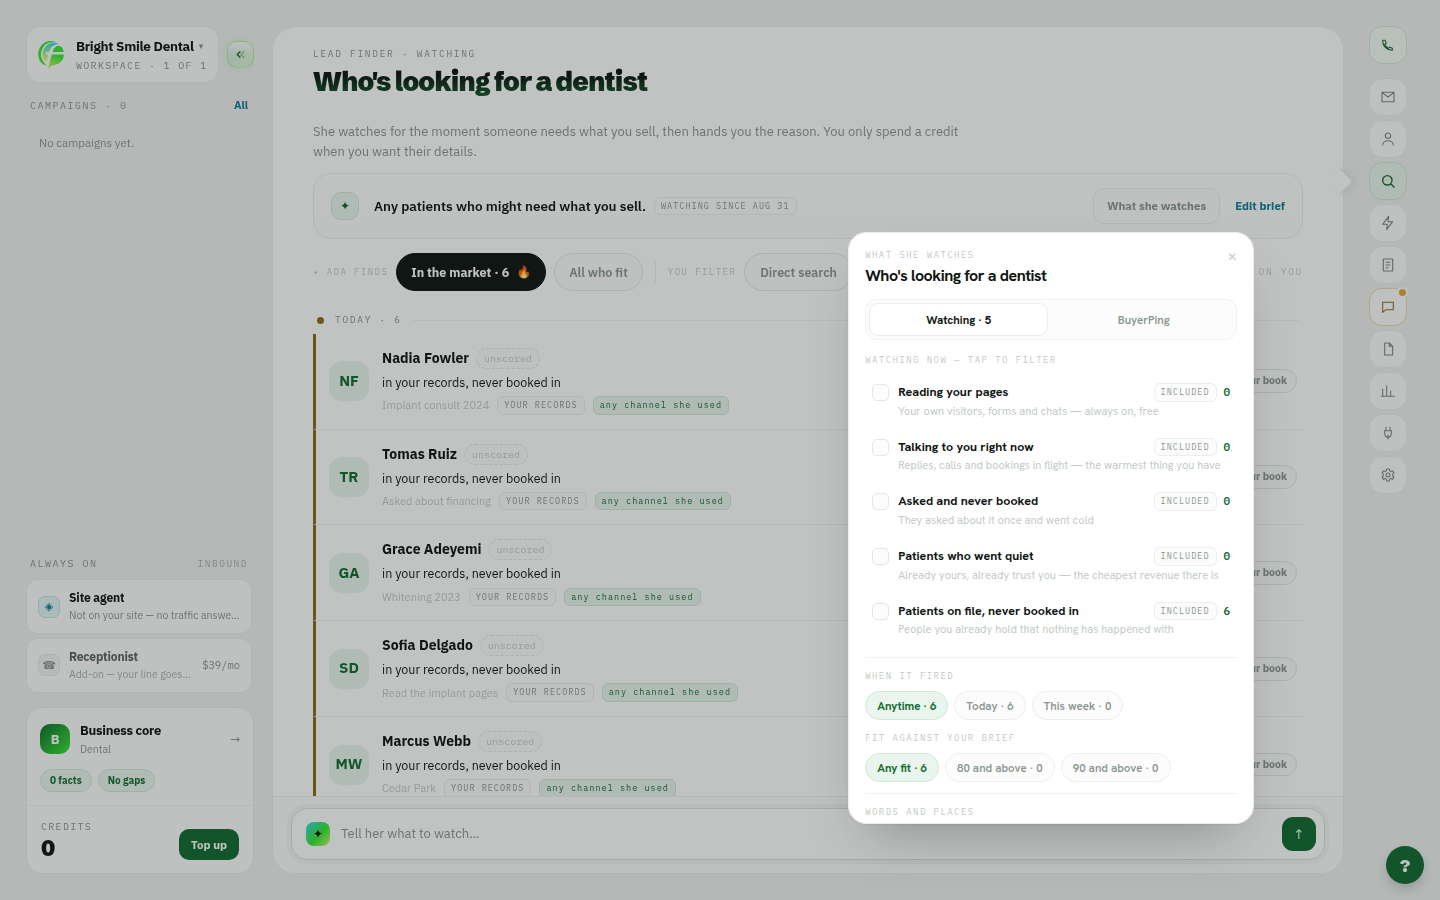
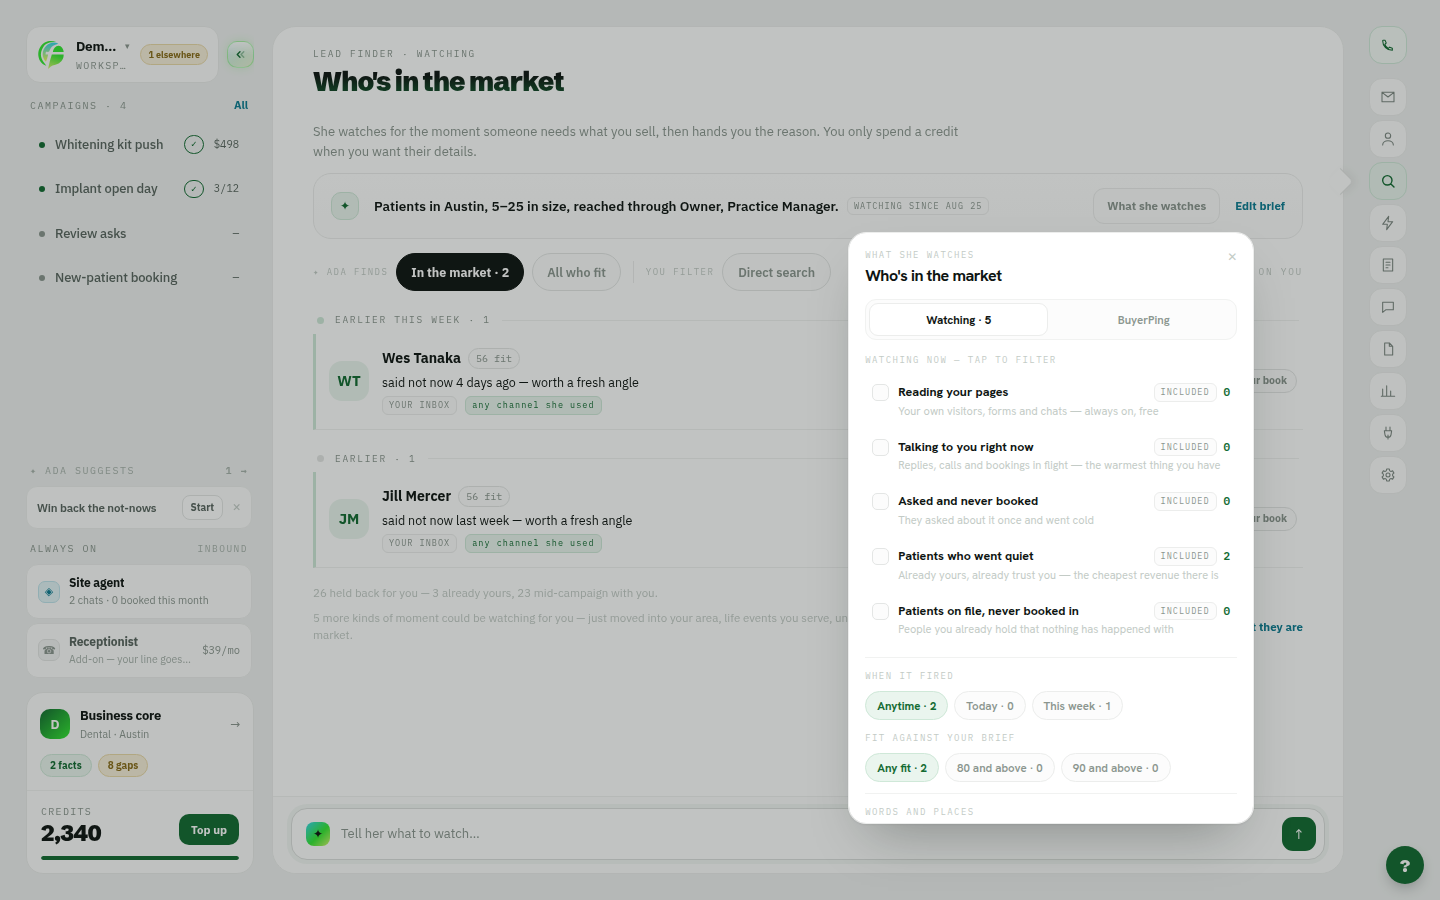
B6.5: a live signal outranks the own-book warm filter
Recapturing against the seeded demo showed the transient first-party signal
missing from the feed. The own-book pass skips a contact that is "still warm
with you" before it ever looks at their signals, so someone who asked what
implants cost this morning was dropped as not-a-find — precisely who belongs at
the top of "in the market". The warm filter now yields when something has
actually fired.

diff --git a/apps/api/src/leads/leads.controller.ts b/apps/api/src/leads/leads.controller.ts
@@ -683,7 +683,12 @@ export class LeadsController {
         const notNowOn = notNowAt.get(c.id) ?? null;
         const isLost = notNowOn != null;
         const everTouched = touchById.has(c.id);
-        if (!isLapsed && !isLost && everTouched) continue; // still warm with you — not a "find"
+        const sigs = signalsByContact.get(c.id) ?? [];
+        // "Still warm with you" is not a find — UNLESS something just fired.
+        // A contact who asked what it costs this morning is precisely who
+        // belongs at the top of "in the market"; the own-book warm filter was
+        // dropping them before their signal was ever looked at.
+        if (!isLapsed && !isLost && everTouched && sigs.length === 0) continue;
         const scored = scoreCandidate(profile, {
           title: c.title,
           company: c.company,
@@ -692,8 +697,6 @@ export class LeadsController {
           daysSinceLastTouch: days,
           callConsentGranted: c.callConsent === "granted",
         });
-        const sigs = signalsByContact.get(c.id) ?? [];
-
         // The typed own-book signal that put this row here. Derived from the
         // very rows the suppression pass read — never a stored fiction.
         const ownType = isLost ? "said_not_now" : isLapsed ? "went_quiet" : "never_worked";
